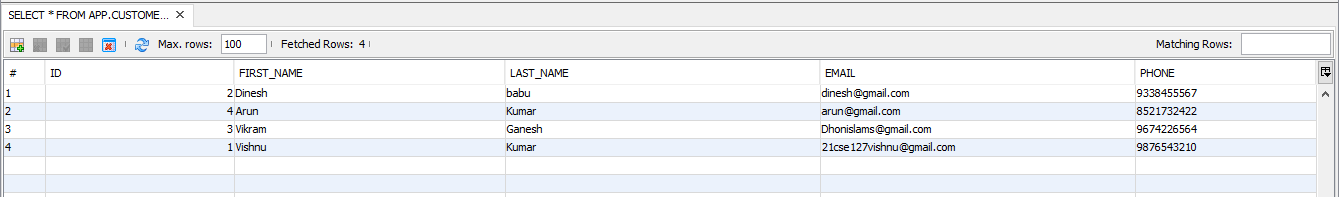
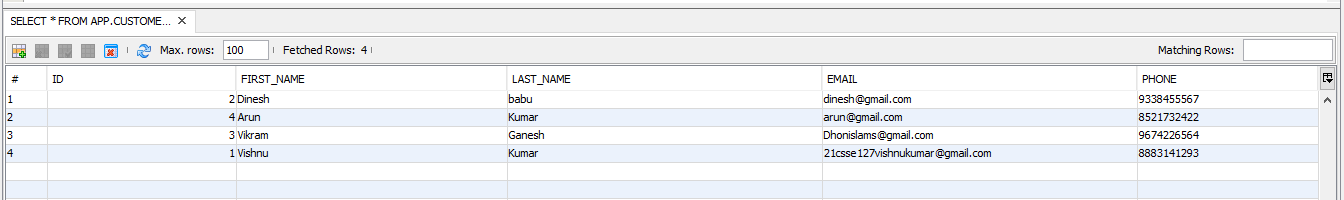
Add files via upload

Changed region(s): [[0.0, 0.0, 1.0, 1.0]]

diff --git a/Exercise_14/Customer_Service.java b/Exercise_14/Customer_Service.java
@@ -11,7 +11,6 @@ import java.sql.ResultSet;
 import java.sql.SQLException;
 import java.sql.Statement;
 import java.util.ArrayList;
-import java.util.Arrays;
 import java.util.List;
 import javax.jws.WebService;
 import javax.jws.WebMethod;
@@ -25,10 +24,10 @@ import javax.jws.WebParam;
 public class Customer_Service {
 
     @WebMethod(operationName = "Update_Phone")
-    public List<Customer> Update_Phone(@WebParam(name = "id") int id,@WebParam(name = "Phone") String phone) 
+    public String Update_Phone(@WebParam(name = "id") int id,@WebParam(name = "Phone") String phone) 
     {
         List<Customer> customers = new ArrayList<>();
-        String result="";
+       
         try
         {
             Connection c=DriverManager.getConnection("jdbc:derby://localhost:1527/customer");
@@ -45,13 +44,12 @@ public class Customer_Service {
             String Phone = rs.getString(5);
             Customer customer = new Customer(c_id, f_name,l_name, email, Phone);
             customers.add(customer);
-            result+="id="+c_id+" First Name="+f_name+" Last Name="+l_name+" Email="+email+" Phone="+Phone+"\t";
          }   
         } 
         catch (SQLException ex) {}
         
         
-        return customers; 
+        return customers.toString(); 
     }
 
     /**
@@ -61,7 +59,7 @@ public class Customer_Service {
      * @return 
      */
     @WebMethod(operationName = "Update_Email")
-    public List<Customer> Update_Email(@WebParam(name = "id") int id, @WebParam(name = "Email") String Email) {
+    public String Update_Email(@WebParam(name = "id") int id, @WebParam(name = "Email") String Email) {
         //TODO write your implementation code here:
         List<Customer> customers = new ArrayList<>();
         
@@ -87,7 +85,7 @@ public class Customer_Service {
         
         catch (SQLException ex) {}
         
-        return customers ;
+        return customers.toString() ;
     }
 
    

diff --git a/Exercise_14/Cilent.java b/Exercise_14/Cilent.java
@@ -5,8 +5,6 @@
  */
 package Exercise_14;
 
-import Exercise_14.Customer;
-import Exercise_14.Customer_Service;
 import java.util.*;
 
 /**
@@ -44,16 +42,12 @@ public class Cilent {
 
     private static void c_phone(int id, String phone) {
         Customer_Service service = new Customer_Service();
-        List<Customer> customers = service.Update_Phone(id, phone);
-        for (Customer customer : customers) {
-            System.out.println(customer.getF_name() + " " + customer.getL_name() + ": " + customer.getPhone()+" AND "+customer.getEmail());
-        }
+        String customers = service.Update_Phone(id, phone);
+        System.out.println(customers);
     }
     private static void c_email(int id, String email) {
         Customer_Service service = new Customer_Service();
-        List<Customer> customers = service.Update_Email(id, email);
-        for (Customer customer : customers) {
-            System.out.println(customer.getF_name() + " " + customer.getL_name() + ": " + customer.getPhone()+" AND "+customer.getEmail());
-        }
+        String customers = service.Update_Email(id, email);
+        System.out.println(customers);
     }
 }

diff --git a/Exercise_14/Customer.java b/Exercise_14/Customer.java
@@ -17,7 +17,8 @@ class Customer
     private String email;
     private String phone;
 
-    public Customer(int id, String f_name, String l_name, String email, String phone) {
+    public Customer(int id, String f_name, String l_name, String email, String phone) 
+    {
         this.id = id;
         this.f_name = f_name;
         this.l_name = l_name;
@@ -25,7 +26,6 @@ class Customer
         this.phone = phone;
     }
 
-    // Getters and setters for each field
     public int getId() {
         return id;
     }
@@ -64,5 +64,10 @@ class Customer
 
     public void setPhone(String phone) {
         this.phone = phone;
+    }
+   @Override
+    public String toString()
+    {
+        return "\nId:"+id+" Name:"+f_name+" "+l_name+" Email:"+email+" Mobile Number:"+phone+" ";
     }
 }
